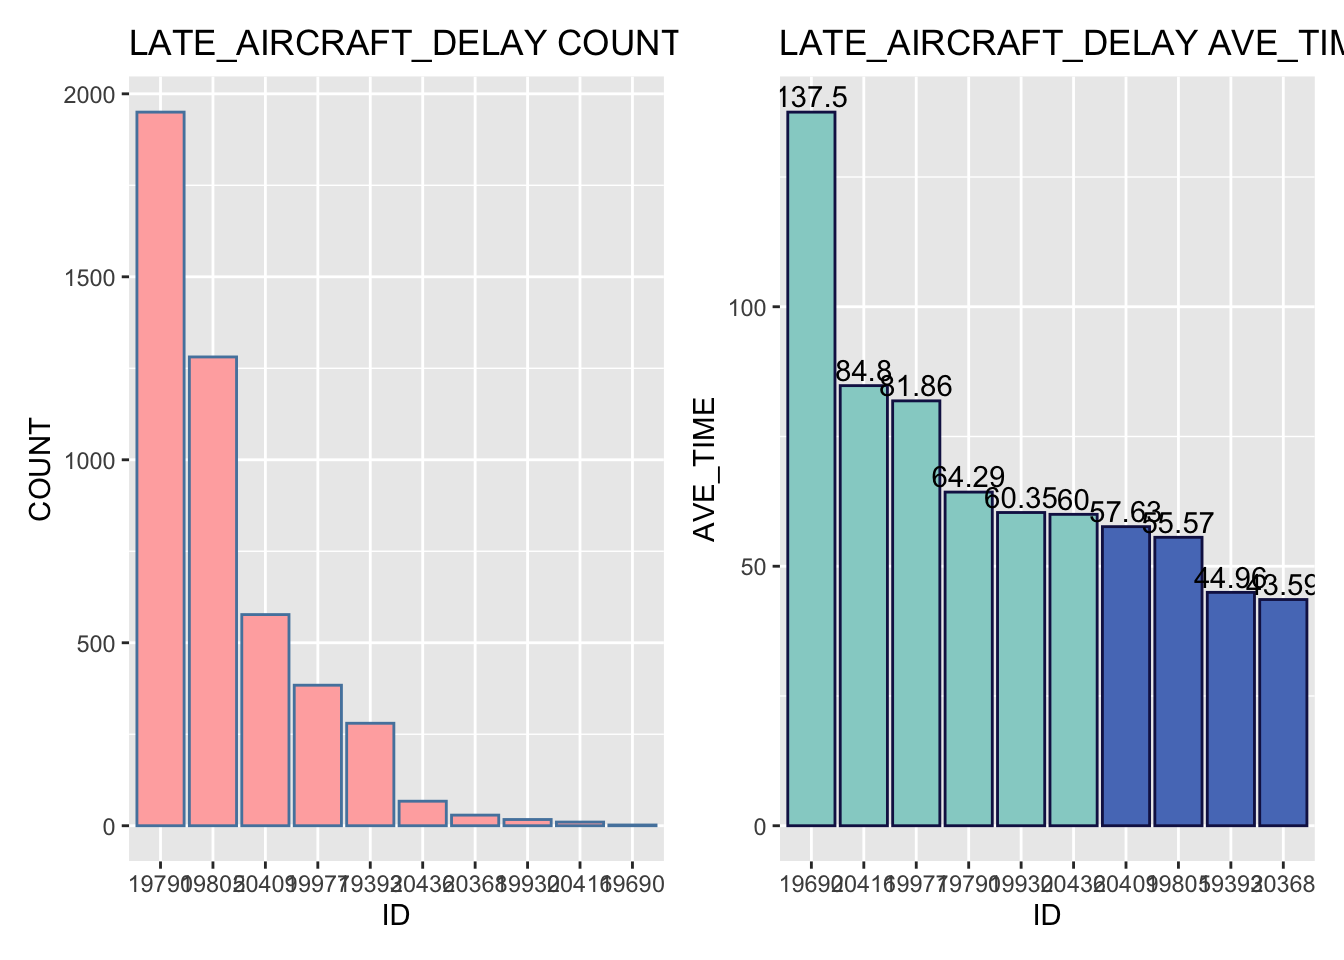
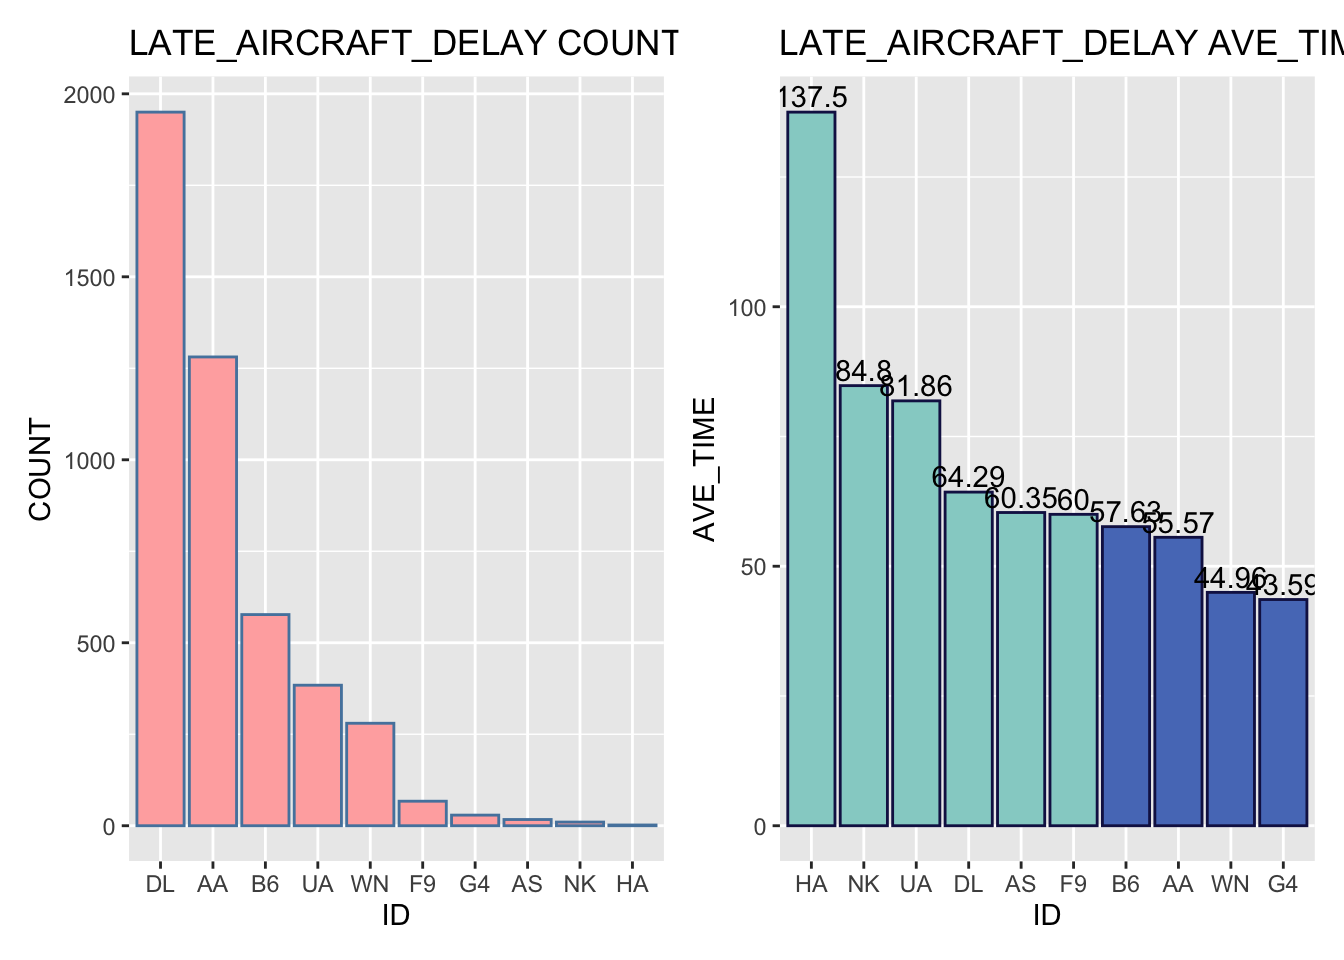
rendered book after html

Changed region(s): [[0.0938, 0.9062, 0.5, 0.9375], [0.5938, 0.9062, 0.9688, 0.9375]]

diff --git a/docs/results.html b/docs/results.html
@@ -24,7 +24,7 @@
 <meta name="author" content="Ziyan Liu, Mingyue Xu" />
 
 
-<meta name="date" content="2021-12-11" />
+<meta name="date" content="2021-12-12" />
 
   <meta name="viewport" content="width=device-width, initial-scale=1" />
   <meta name="apple-mobile-web-app-capable" content="yes" />
@@ -109,18 +109,21 @@
 <!-- PROBLEM ONE: Among all the carriers that provide commercial services in U.S., are there any carriers that have major delay problems? For example, the average delay time is over 60 minutes. -->
 <div id="compare-carriers-on-time-performance" class="section level2" number="5.1">
 <h2><span class="header-section-number">5.1</span> Compare Carriers’ On-Time Performance</h2>
-<p>As we can see from the figure below, <code>Delta Air Lines Inc.</code> have over 3,000 flights delayed during January 2019 from and to New York state, <code>American Airlines Inc.</code> also have more than 2,000 flights delayed, and the number is approximately 1.200 for <code>JetBlue Airways</code>. This is justifiable since these are the major airlines that conduct the most domestic flights, and the number of delayed flights, certainly, increases as the number of total conducted flights increases. Note that this figure only shows the number of times that delay occurs. On the other side, we need to evaluate the average severity of the delays, i.e. the average time of the delays for each carrier.</p>
-<p><img src="finalproj_files/figure-html/airline%20delay%20count-1.png" width="672" /></p>
+<p>As we can see from the figure below, <code>DL (Delta Air Lines Inc.)</code> have over 3,000 flights delayed during January 2019 from and to New York state, <code>AA (American Airlines Inc.)</code> also have more than 2,000 flights delayed, and the number is approximately 1.200 for <code>B6 (JetBlue Airways)</code>. This is justifiable since these are the major airlines that conduct the most domestic flights, and the number of delayed flights, certainly, increases as the number of total conducted flights increases. Note that this figure only shows the number of times that delay occurs. On the other side, we need to evaluate the average severity of the delays, i.e. the average time of the delays for each carrier.</p>
+<p><img src="finalproj_files/figure-html/airline%20delay%20count-1.png" width="672" /><img src="finalproj_files/figure-html/airline%20delay%20count-2.png" width="672" /></p>
 <!-- The dataframe `NY_Jan_delayCount` shows the number of delays for each carrier within January. We plot a simple bar graph to manifest the result more explicitly. Note that this figure only shows the number of times that the delay occurs, on the other side, we need to evaluate the averaged severity of the delays, i.e. the averaged time of the delays for each carrier. -->
-<p>Therefore, we make another bar plot manifesting the average delay time for each carrier airline. Using the same dataset as above (flights from and to New York state during January 2019), we can see that <code>United Air Lines Inc</code> have the longest average delay time of 104.83 minutes. <code>Hawaiian Airlines Inc.</code>, <code>Spirit Air Lines</code>, <code>Delta Air Lines Inc.</code>, <code>JetBlue Airways</code>, <code>American Airlines Inc.</code> and <code>Frontier Airlines Inc.</code> all have average delay time longer than an hour.</p>
+<p>Therefore, we make another bar plot manifesting the average delay time for each carrier airline. Using the same dataset as above (flights from and to New York state during January 2019), we can see that <code>UA (United Air Lines Inc.)</code> have the longest average delay time of 104.83 minutes. <code>HA (Hawaiian Airlines Inc.)</code>, <code>NK (Spirit Air Lines)</code>, <code>DL (Delta Air Lines Inc.)</code>, <code>B6 (JetBlue Airways)</code>, <code>AA (American Airlines Inc.)</code> and <code>F9 (Frontier Airlines Inc.)</code> all have average delay time longer than an hour.</p>
 <p><img src="finalproj_files/figure-html/airline%20delay%20average-1.png" width="672" /></p>
 <p>Moreover, we hope to explore the results for concrete delay reasons, i.e. <code>CARRIER_DELAY</code>, <code>WEATHER_DELAY</code>, <code>NAS_DELAY</code>, <code>SECURITY_DELAY</code> and <code>LATE_AIRCRAFT_DELAY</code>. For each reason, we make two figures showing the count of delays and average delay time with respect to each carrier.</p>
-<p>From the figures, we can find that the most common and severe reason causing flight delays is <code>LATE_AIRCRAFT_DELAY</code>, which presumably can be due to the late arrival or preceding flights. There are almost 2,000 <code>Delta Air Lines Inc.</code> flights are delayed due to this reason, and the average waiting time exceeds 2 hours for <code>Hawaiian Airlines Inc.</code> flights.</p>
+<p>From the figures, we can find that the most common and severe reason causing flight delays is <code>LATE_AIRCRAFT_DELAY</code>, which presumably can be due to the late arrival or preceding flights. There are almost 2,000 <code>DL (Delta Air Lines Inc.)</code> flights are delayed due to this reason, and the average waiting time exceeds 2 hours for <code>HA (Hawaiian Airlines Inc.)</code> flights.</p>
 <p>The second most common reason is <code>NAS_DELAY</code>, i.e., national air system delay, but the average time caused by this is typically not as long as that caused by other reasons, mostly within an hour.</p>
-<p><code>CARRIER_DELAY</code> is the third most common reason that causes delays. This happens a lot of times for <code>Delta Air Lines Inc.</code>, <code>JetBlue Airways</code>, and <code>American Airlines Inc.</code>. On average, when this happens, the waiting time for <code>United Air Lines Inc.</code> flights is over 100 minutes.</p>
-<p><code>WEATHER_DELAY</code> is less frequent than the three above. <code>Delta Air Lines Inc.</code> and <code>American Airlines Inc.</code> have about 150 delays caused by weather, which is a very small proportion of all delays. However, the time is highly variable- the longest is 118 minutes for <code>Delta Air Lines Inc.</code>, and the shortest is only 12.5 minutes.</p>
+<p><code>CARRIER_DELAY</code> is the third most common reason that causes delays. This happens a lot of times for <code>DL (Delta Air Lines Inc.)</code>, <code>B6 (JetBlue Airways)</code>, and <code>AA (American Airlines Inc.)</code>. Further, onn average, when carrier delay happens, the waiting time for <code>UA (United Air Lines Inc.)</code> flights is over 100 minutes.</p>
+<p><code>WEATHER_DELAY</code> is less frequent than the three above. <code>DL (Delta Air Lines Inc.)</code> and <code>AA (American Airlines Inc.)</code> have about 150 delays caused by weather, which is a very small proportion of all delays. However, the time is highly variable- the longest is 118 minutes for <code>DL (Delta Air Lines Inc.)</code>, and the shortest is only 12.5 minutes.</p>
 <p>Among all 5 reasons, <code>SECURITY_DELAY</code> is the rarest, and only occurs 15 times. Therefore, we do not discuss this reason in detail.</p>
 <p><img src="finalproj_files/figure-html/delay%20reason-1.png" width="672" /><img src="finalproj_files/figure-html/delay%20reason-2.png" width="672" /><img src="finalproj_files/figure-html/delay%20reason-3.png" width="672" /><img src="finalproj_files/figure-html/delay%20reason-4.png" width="672" /><img src="finalproj_files/figure-html/delay%20reason-5.png" width="672" /></p>
+<p>As we can see, both delay count and delay time are reasonable measures to the on-time performance of flight and need to be combine when choosing airlines.</p>
+<p><img src="finalproj_files/figure-html/unnamed-chunk-7-1.png" width="672" /></p>
+<p>The heatmap above shows normalized value of delay count and time of the airline carriers for all five reasons. In each column, we can see which carrier has most delay flights and longest average delay time. For instance, <code>DL</code> has most flights delayed for aircraft reason, and <code>HA</code> has the longest delay time for the reason.</p>
 <!-- PROBLEM TWO: Are early flights or late flights more likely to delay? Do origin and destination influence the on-time performance? -->
 </div>
 <div id="on-time-performance-accross-the-day" class="section level2" number="5.2">
@@ -128,11 +131,11 @@
 <p>In addition to comparing the differences among the various airlines, we also compared the on-time performance of flights at difference time of a day. We divide the 24 hours of a day into 8 groups, one group every three hours, and calculated the average delay time of departure and arrival. As we can see in the plot below, flight performance of 2020 is obviously better than in 2019. The green horizontal line at level 0 indicates the flight delays or not. Specifically, flights in 2020 almost arrive in advance to their destination no matter they departs lately or not. Unfortunately, flights in 2019 almost depart lately. Moreover, late flights seem to performance worse than early flights in general.</p>
 <p><img src="finalproj_files/figure-html/performance%20based%20on%20CRS_DEP_TIME-1.png" width="672" /></p>
 <p>Next, we explore the difference among flights to different destinations. We divide them into groups by state in the following graph. The trend in the previous graph is still easy to see in this one- flights that depart later in a day tend to have longer average delay time, and that the on-time performance for flights in 2020 is significantly better than that in 2019. Note that flights to some destinations e.g. HI, MT, NM, are only provided in certain periods, which may caused by the distance and passenger volume.</p>
-<p><img src="finalproj_files/figure-html/unnamed-chunk-6-1.png" width="672" /></p>
+<p><img src="finalproj_files/figure-html/unnamed-chunk-8-1.png" width="672" /></p>
 <pre><code>##  [1] &quot;12&quot; &quot;03&quot; &quot;06&quot; &quot;09&quot; &quot;01&quot; &quot;04&quot; &quot;07&quot; &quot;10&quot; &quot;02&quot; &quot;05&quot; &quot;08&quot; &quot;11&quot;</code></pre>
-<p><img src="finalproj_files/figure-html/unnamed-chunk-7-1.png" width="672" /></p>
+<p><img src="finalproj_files/figure-html/unnamed-chunk-9-1.png" width="672" /></p>
 <p>The plot above shows flights performance in each months, which also yields the two conclusions mentioned before. Moreover, some other interesting observations are: (1) in winter (Dec., Jan., Feb.), flight performance is in general worse than in other seasons, especially for those late flights, which may due to the cold weather. (2) Fall (Sept., Oct., Nov.) seems to have the best flight performance.</p>
-<p><img src="finalproj_files/figure-html/unnamed-chunk-8-1.png" width="672" /><img src="finalproj_files/figure-html/unnamed-chunk-8-2.png" width="672" /></p>
+<p><img src="finalproj_files/figure-html/unnamed-chunk-10-1.png" width="672" /><img src="finalproj_files/figure-html/unnamed-chunk-10-2.png" width="672" /></p>
 <p>3D plot is more powerful to show the variation of a quantity grouped by multiple dimensions. Flights in June, July and August from 9pm to 12 pm have the longest average delay time.</p>
 </div>
 <div id="flights-to-three-airports-near-nyc-jfk-lga-ewr" class="section level2" number="5.3">
@@ -140,7 +143,6 @@
 <!-- PROBLEM THREE: Specifically for NYC. If someone wants to come to NYC, which airport should s/he choose to fly to based on the origin city? -->
 <p>Columbia University is located in the City of New York, and there are three major airports near the city, which are John F. Kennedy International Airport (JFK), LaGuardia Airport (LGA) and Newark Liberty International Airport (EWR). Suppose a person wants to travel to New York, how should he/she choose which airport to fliy to? We make a graph to illustrate the differnce, facet by each state that has flight towards the three airports.</p>
 <p><img src="finalproj_files/figure-html/to%20NYC%20problem-1.png" width="672" /></p>
-<p><img src="finalproj_files/figure-html/unnamed-chunk-9-1.png" width="672" /></p>
 
 </div>
 </div>

diff --git a/docs/interactive-component.html b/docs/interactive-component.html
@@ -24,7 +24,7 @@
 <meta name="author" content="Ziyan Liu, Mingyue Xu" />
 
 
-<meta name="date" content="2021-12-11" />
+<meta name="date" content="2021-12-12" />
 
   <meta name="viewport" content="width=device-width, initial-scale=1" />
   <meta name="apple-mobile-web-app-capable" content="yes" />
@@ -106,6 +106,113 @@
             <section class="normal" id="section-">
 <div id="interactive-component" class="section level1" number="6">
 <h1><span class="header-section-number">Chapter 6</span> Interactive component</h1>
+<p>&lt;&lt;insertHTML:[flight_choice.html]</p>
+<!DOCTYPE html>  
+<html lang="en">  
+    <head>  
+        <meta charset="utf-8">  
+        <title> Flight Choice Between Cities </title>  
+          
+        <script src="https://d3js.org/d3.v6.min.js"></script>  
+          
+        <style type="text/css">  
+            //h1 {color:red;}
+            p {color:blue;}  
+            .myclass2 {
+              color:red;  
+              font-size: 30px;
+            }
+            circle {color:red;}
+        </style>  
+          
+    </head>  
+      
+    <body>  
+      <h1>Flight Choice to NYC</h1>
+     
+      <form>
+        <label for="mon">Enter the month you want to travel (e.g. "03" for March):</label>
+        <input type="text" id="mon" name="mon"><br><br>
+      
+        <label for="origin">Enter your origin state abbreviation (e.g. "PA" for Pennsylvania):</label>
+        <input type="text" id="origin" name="origin"><br><br>
+        <input type="submit" value="Submit">
+      </form>
+      
+      <figure>
+        <figcaption>Average Delay Time to Airports near NYC</figcaption>
+        <svg class="chart" width="800" height="450" aria-labelledby="title" role="img">
+          <title id="title">information</title>
+          <g class="grid x-grid" id="xGrid">
+            <line x1="90" x2="90" y1="5" y2="370" stroke="black"></line>
+          </g>
+          <g class="grid y-grid" id="yGrid">
+            <line x1="90" x2="650" y1="370" y2="370" stroke="black"></line>
+          </g>
+          <g class="labels x-labels">
+            <text x="100" y="385">3am~6am</text>
+            <text x="180" y="385">6am~9am</text>
+            <text x="260" y="385">9am~12pm</text>
+            <text x="340" y="385">12pm~3pm</text>
+            <text x="420" y="385">3pm~6pm</text>
+            <text x="500" y="385">6pm~9pm</text>
+            <text x="580" y="385">9pm~12am</text>
+            <text x="300" y="415" class="label-title">CRS Departure Time</text>
+          </g>
+          <g class="labels y-labels">
+            <text x="60" y="20">40</text>
+            <text x="60" y="80">30</text>
+            <text x="60" y="140">20</text>
+            <text x="60" y="200">10</text>
+            <text x="60" y="260">0</text>
+            <text x="60" y="320">-10</text>
+            <text x="60" y="380">-20</text>
+            <text x="10" y="180" class="label-title">Delay</text>
+          </g>
+          <g class="data" data-setname="avg delay data">
+            <circle cx="130" cy="350" id="dep1" r="4" fill="#DD4A48"></circle>
+            <circle cx="210" cy="141" id="dep2" r="4" fill="#DD4A48"></circle>
+            <circle cx="290" cy="179" id="dep3" r="4" fill="#DD4A48"></circle>
+            <circle cx="370" cy="200" id="dep4" r="4" fill="#DD4A48"></circle>
+            <circle cx="450" cy="104" id="dep5" r="4" fill="#DD4A48"></circle>
+            <circle cx="530" cy="200" id="dep6" r="4" fill="#DD4A48"></circle>
+            <circle cx="610" cy="104" id="dep7" r="4" fill="#DD4A48"></circle>
+            
+            <circle cx="130" cy="330" id="arr1" r="4" fill="#064663"></circle>
+            <circle cx="210" cy="198" id="arr2" r="4" fill="#064663"></circle>
+            <circle cx="290" cy="290" id="arr3" r="4" fill="#064663"></circle>
+            <circle cx="370" cy="205" id="arr4" r="4" fill="#064663"></circle>
+            <circle cx="450" cy="118" id="arr5" r="4" fill="#064663"></circle>
+            <circle cx="530" cy="209" id="arr6" r="4" fill="#064663"></circle>
+            <circle cx="610" cy="116" id="arr7" r="4" fill="#064663"></circle>
+          </g>
+          
+          <g class="legend">
+            <rect x="690" y="140" width="100" height="40" fill="aliceblue"></rect>
+            <line x1="690" x2="690" y1="140" y2="180" stroke="black"></line>
+            <line x1="790" x2="790" y1="140" y2="180" stroke="black"></line>
+            <line x1="690" x2="790" y1="140" y2="140" stroke="black"></line>
+            <line x1="690" x2="790" y1="180" y2="180" stroke="black"></line>
+            <circle cx="700" cy="150" r="4" fill="#DD4A48"></circle>
+            <text x="710" y="155">Departure</text>
+            <circle cx="700" cy="170" r="4" fill="#064663"></circle>
+            <text x="710" y="175">Arrival</text>
+            
+          </g>
+        </svg>
+      </figure>
+        
+        
+        
+        <script>  
+            // JavaScript / D3 will go here
+            d3.select("#dep1")
+            .transition().duration(3000).style("cy", "250");
+        </script>  
+          
+    </body>
+</html> 
+    
 
 </div>
             </section>

diff --git a/docs/index.html b/docs/index.html
@@ -24,7 +24,7 @@
 <meta name="author" content="Ziyan Liu, Mingyue Xu" />
 
 
-<meta name="date" content="2021-12-11" />
+<meta name="date" content="2021-12-12" />
 
   <meta name="viewport" content="width=device-width, initial-scale=1" />
   <meta name="apple-mobile-web-app-capable" content="yes" />
@@ -107,10 +107,16 @@
 <div id="header">
 <h1 class="title">Flight Performance Analysis</h1>
 <p class="author"><em>Ziyan Liu, Mingyue Xu</em></p>
-<p class="date"><em>2021-12-11</em></p>
+<p class="date"><em>2021-12-12</em></p>
 </div>
 <div id="introduction" class="section level1" number="1">
 <h1><span class="header-section-number">Chapter 1</span> Introduction</h1>
+<p>We would like to choose the topic related to the flight performance in U.S., more precisely, the time performance (arrival or departure delays) with respect to different settings of airlines, seasons, destinations, departure time, etc. The experience we learned from the observed data will help us make more reasonable decisions in choosing travelling modes, for example, one may be interested in which airline, which airport, when and where is the best combination for travelling from NYC. Such concerns are closely related to daily life and thus the data analysis is of great significance. Concretely, we will investigate the following three problems:</p>
+<ol style="list-style-type: decimal">
+<li><p>Among all the carriers that provide commercial services in U.S., are there any carriers that have major delay problems? For example, the average delay time is over 60 minutes. Indeed, there are different delay reasons such like <em>CARRIER DELAY</em>, <em>WEATHER DELAY</em>, <em>AIRCRAFT DELAY</em>, etc., and airlines may performance differently with respect to a specific delay reason. Furthermore, delay count and delay time are both reasonable measures to the time performance, and should be analyzed respectively, but combined when making decisions.</p></li>
+<li><p>Are early flights or late flights more likely to delay? Do origin and destination influence the on-time performance? Flight performance may be affected by many environmental factors such as seasons, departure time, weather, etc., thus being intricate and hard to analyze. However, visualization can greatly help us in clearing up those relations and variable controlled analysis will assist the decision making in the following problem3.</p></li>
+<li><p>Specifically for NYC. If someone wants to come to NYC, which airport should he/she choose to fly to based on the origin city? Based on the experience we learned from past in problem1 and problem2, more reasonable decisions can be made for travelling from NYC under different factor settings. The goal is to avoid delays and save time, which is helpful in both business travel and leisure travel.</p></li>
+</ol>
 
 </div>
             </section>

diff --git a/flight_choice.html b/flight_choice.html
@@ -22,23 +22,10 @@
       <h1>Flight Choice to NYC</h1>
      
       <form>
-        <label for="mon">Choose the month you want to travel:</label>
-        <select name='mon' id='mon'>
-          <OPTION Value="Jan">January</OPTION>
-          <OPTION Value="Feb">Febuary</OPTION>
-          <OPTION Value="Mar">March</OPTION>
-          <OPTION Value="Apr">April</OPTION>
-          <OPTION Value="May">May</OPTION>
-          <OPTION Value="Jun">June</OPTION>
-          <OPTION Value="Jul">July</OPTION>
-          <OPTION Value="Aug">August</OPTION>
-          <OPTION Value="Sept">September</OPTION>
-          <OPTION Value="Oct">October</OPTION>
-          <OPTION Value="Nov">November</OPTION>
-          <OPTION Value="Dec">December</OPTION>
-        </select><br><br>
+        <label for="mon">Enter the month you want to travel (e.g. "03" for March):</label>
+        <input type="text" id="mon" name="mon"><br><br>
       
-        <label for="origin">Enter your origin state abbreviation (eg. PA):</label>
+        <label for="origin">Enter your origin state abbreviation (e.g. "PA" for Pennsylvania):</label>
         <input type="text" id="origin" name="origin"><br><br>
         <input type="submit" value="Submit">
       </form>
@@ -93,6 +80,10 @@
           
           <g class="legend">
             <rect x="690" y="140" width="100" height="40" fill="aliceblue"></rect>
+            <line x1="690" x2="690" y1="140" y2="180" stroke="black"></line>
+            <line x1="790" x2="790" y1="140" y2="180" stroke="black"></line>
+            <line x1="690" x2="790" y1="140" y2="140" stroke="black"></line>
+            <line x1="690" x2="790" y1="180" y2="180" stroke="black"></line>
             <circle cx="700" cy="150" r="4" fill="#DD4A48"></circle>
             <text x="710" y="155">Departure</text>
             <circle cx="700" cy="170" r="4" fill="#064663"></circle>
@@ -106,9 +97,8 @@
         
         <script>  
             // JavaScript / D3 will go here
-            //d3.select("#id3")  
-            //.transition().duration(3000).style("color", "red")  
-            //.transition().duration(3000).style("font-size", "24px");
+            d3.select("#dep1")
+            .transition().duration(3000).style("cy", "250");
         </script>  
           
     </body>

diff --git a/docs/conclusion.html b/docs/conclusion.html
@@ -24,7 +24,7 @@
 <meta name="author" content="Ziyan Liu, Mingyue Xu" />
 
 
-<meta name="date" content="2021-12-11" />
+<meta name="date" content="2021-12-12" />
 
   <meta name="viewport" content="width=device-width, initial-scale=1" />
   <meta name="apple-mobile-web-app-capable" content="yes" />
@@ -106,6 +106,8 @@
             <section class="normal" id="section-">
 <div id="conclusion" class="section level1" number="7">
 <h1><span class="header-section-number">Chapter 7</span> Conclusion</h1>
+<!-- Limitation and Future Direction, Lessons Learned -->
+<p>In this project, we were not able to</p>
 
 </div>
             </section>

diff --git a/docs/404.html b/docs/404.html
@@ -24,7 +24,7 @@
 <meta name="author" content="Ziyan Liu, Mingyue Xu" />
 
 
-<meta name="date" content="2021-12-11" />
+<meta name="date" content="2021-12-12" />
 
   <meta name="viewport" content="width=device-width, initial-scale=1" />
   <meta name="apple-mobile-web-app-capable" content="yes" />

diff --git a/docs/data-sources.html b/docs/data-sources.html
@@ -24,7 +24,7 @@
 <meta name="author" content="Ziyan Liu, Mingyue Xu" />
 
 
-<meta name="date" content="2021-12-11" />
+<meta name="date" content="2021-12-12" />
 
   <meta name="viewport" content="width=device-width, initial-scale=1" />
   <meta name="apple-mobile-web-app-capable" content="yes" />

diff --git a/docs/data-transformation.html b/docs/data-transformation.html
@@ -24,7 +24,7 @@
 <meta name="author" content="Ziyan Liu, Mingyue Xu" />
 
 
-<meta name="date" content="2021-12-11" />
+<meta name="date" content="2021-12-12" />
 
   <meta name="viewport" content="width=device-width, initial-scale=1" />
   <meta name="apple-mobile-web-app-capable" content="yes" />

diff --git a/docs/missing-values.html b/docs/missing-values.html
@@ -24,7 +24,7 @@
 <meta name="author" content="Ziyan Liu, Mingyue Xu" />
 
 
-<meta name="date" content="2021-12-11" />
+<meta name="date" content="2021-12-12" />
 
   <meta name="viewport" content="width=device-width, initial-scale=1" />
   <meta name="apple-mobile-web-app-capable" content="yes" />
